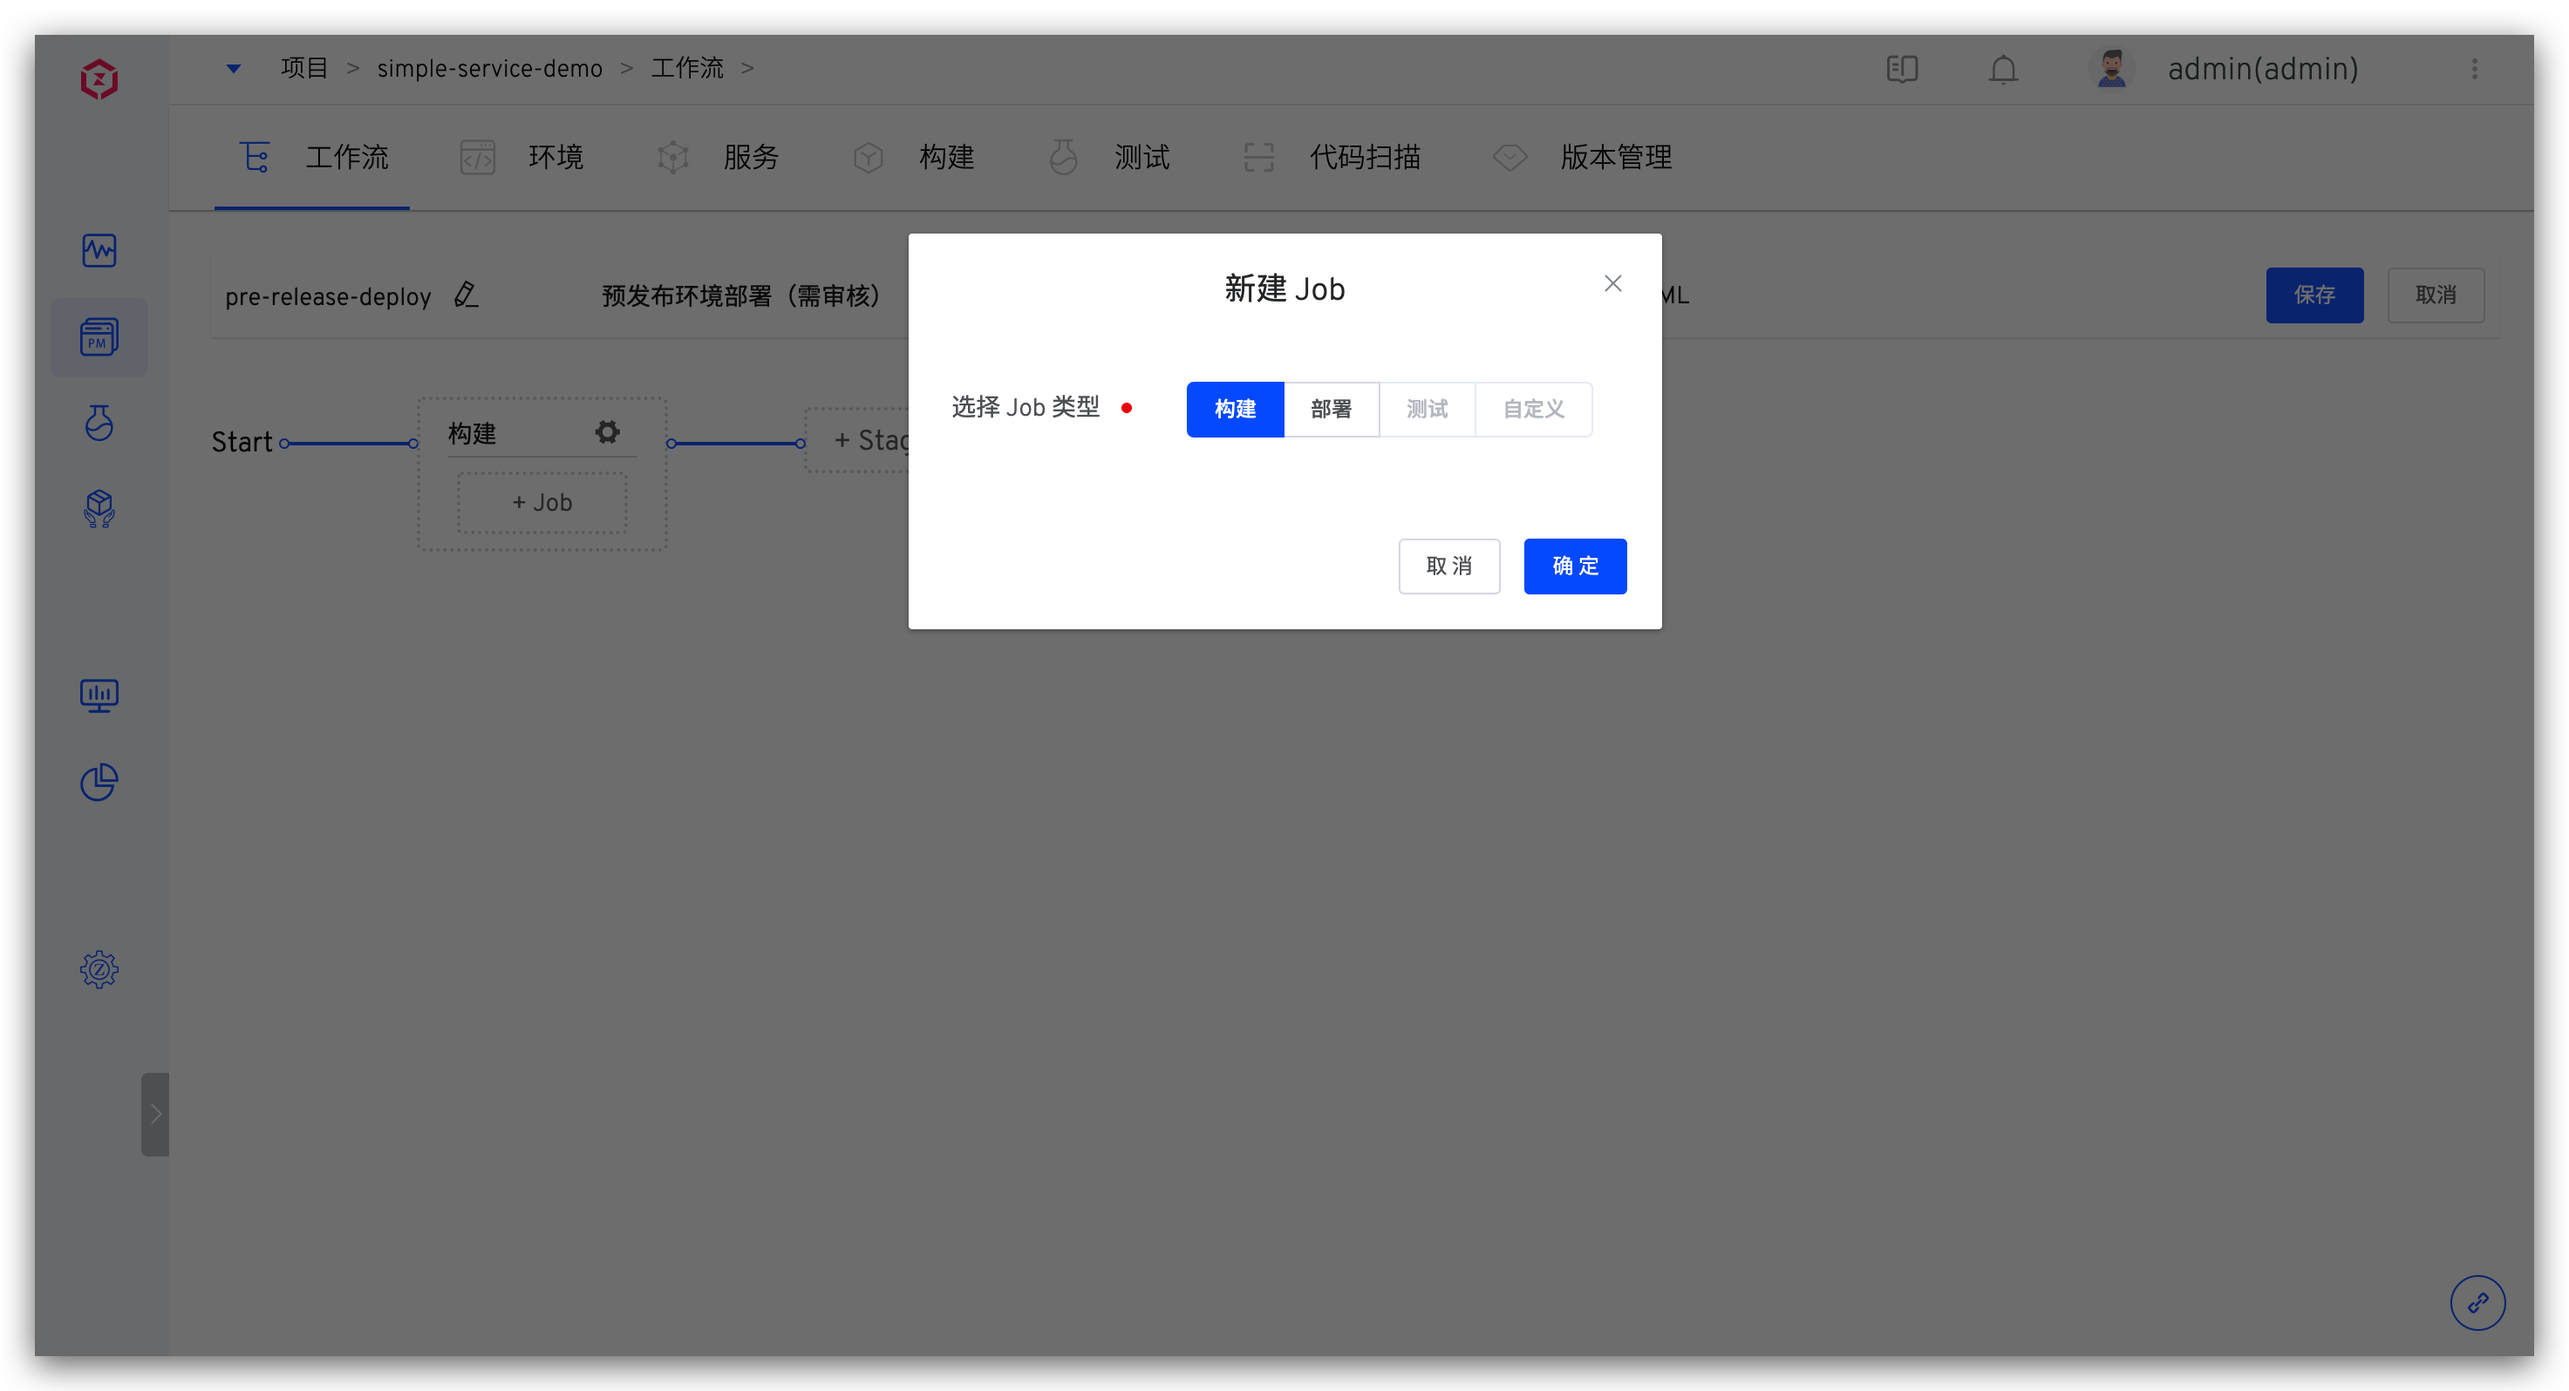
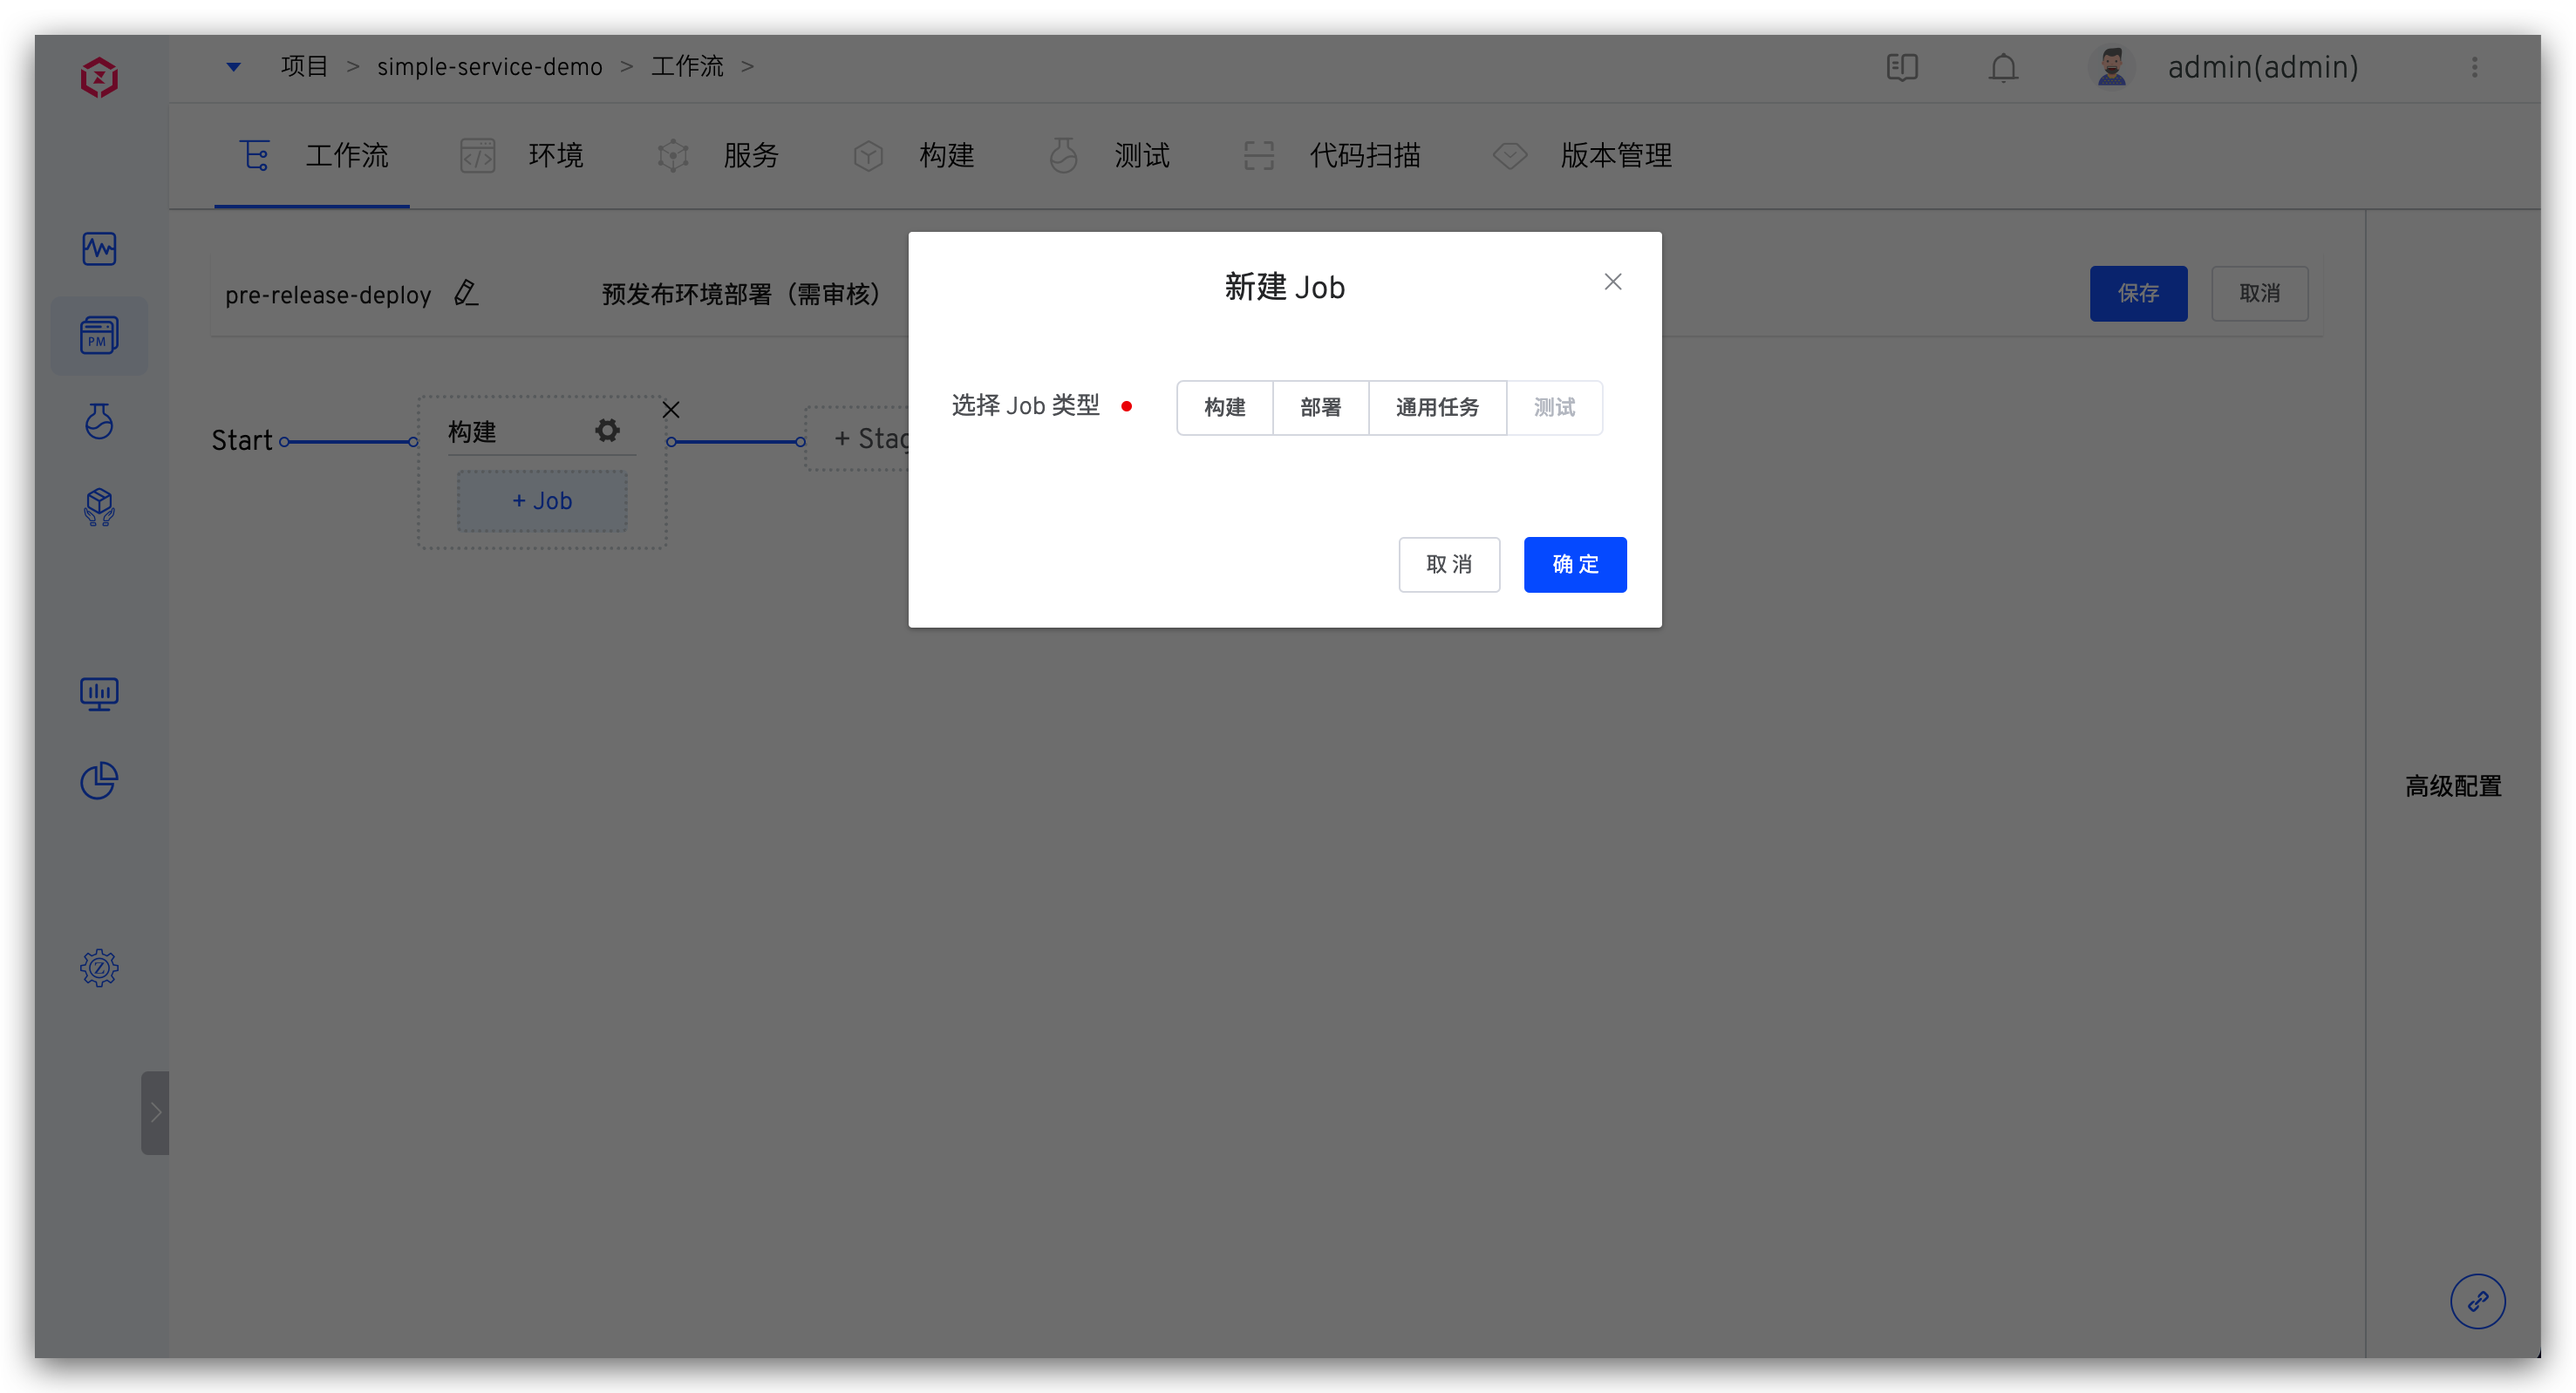
add description for common job

diff --git a/dev/04.项目/02.工作流/02.common_workflow.md b/dev/04.项目/02.工作流/02.common_workflow.md
@@ -40,7 +40,7 @@ permalink: /dev/project/common-workflow/
 - `前置步骤`：可按需开启人工审核。开启后，需要审核通过，该 Stage 下的 Job 才会被执行
 
 ### Job
-添加 Stage 后，点击 Stage 下方的 `+Job` 为 Stage 增加 Job 配置，系统目前支持`构建`和`部署`两种 Job 类型。
+添加 Stage 后，点击 Stage 下方的 `+Job` 为 Stage 增加 Job 配置，系统目前支持`构建`、`部署`、`通用任务`三种 Job 类型。
 
 ![common_workflow_config](../_images/common_workflow_config_2.png)
 
@@ -67,6 +67,19 @@ permalink: /dev/project/common-workflow/
 - `服务来源`：包括其他 Job 输出或运行时输入
     - `其他 Job 输出`：可选择前置 Job，使用 Job 中的 $IMAGE 变量来部署服务（目前只支持选择前置的构建 Job）
     - `运行时输入`：运行工作流时手动指定
+
+#### 通用任务
+
+支持拉取代码、执行 Shell 脚本、文件存储等功能。
+
+- `执行环境`：参考 [构建环境配置](/dev/project/build/#构建环境)
+- `代码信息`：参考 [代码信息配置](/dev/project/build/#代码信息)
+- `变量`：参考 [变量配置](/dev/project/build/#构建变量)
+- `添加步骤`：包括添加 Shell 脚本执行以及文件存储，可参考 [更多构建配置](/dev/project/build/#更多构建步骤)
+- `高级配置`：参考 [高级配置](/dev/project/build/#高级配置)
+
+![common_workflow_config](../_images/common_workflow_config_6.png)
+![common_workflow_config](../_images/common_workflow_config_7.png)
 
 ### 人工审核
 开启 Stage 配置中的`人工审核`，在 Stage 执行之前会触发审核。
